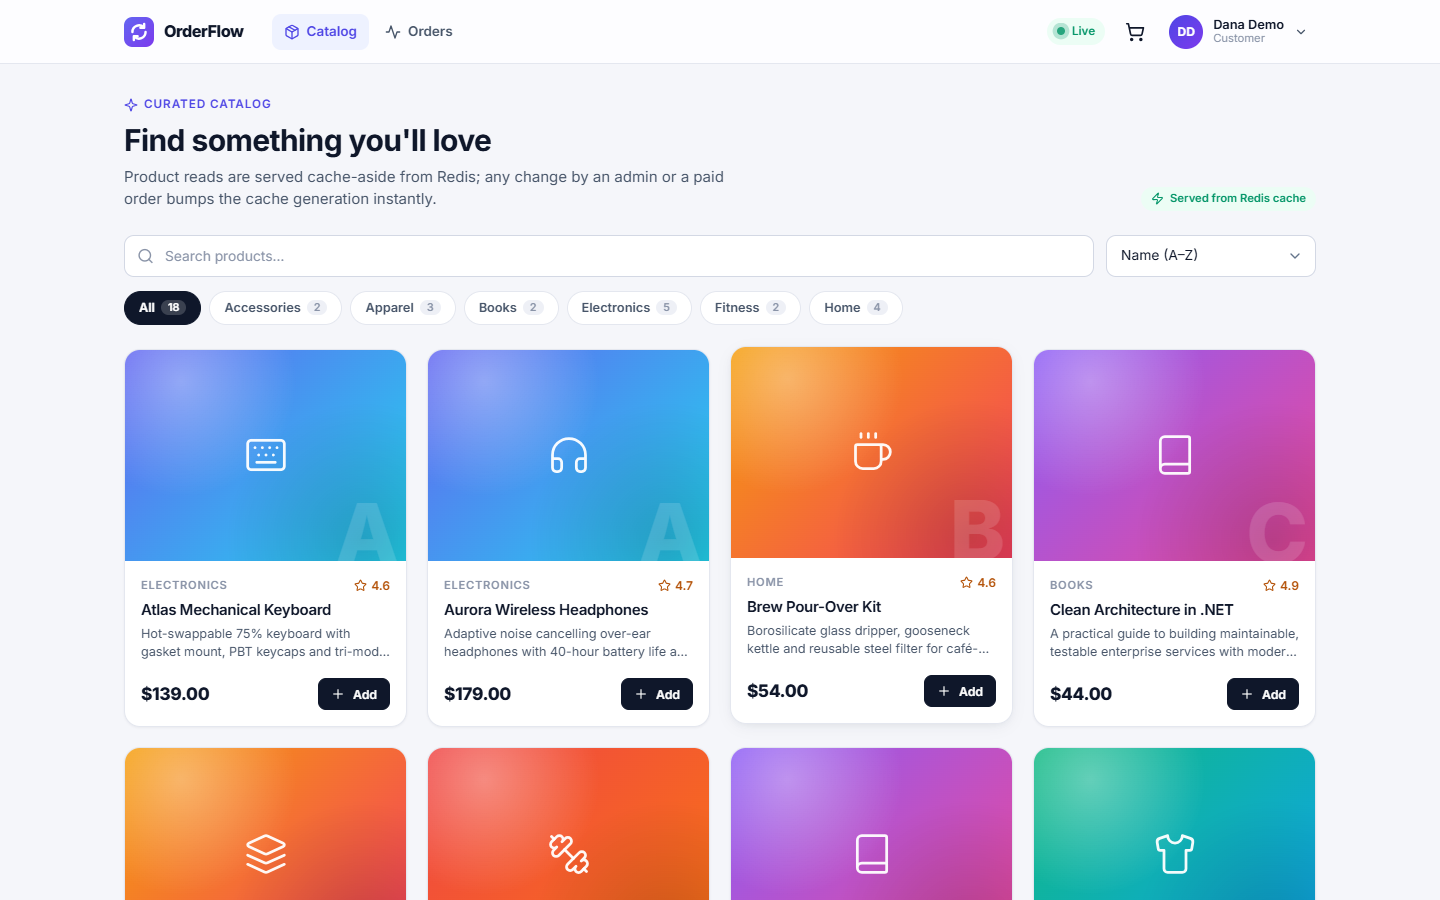
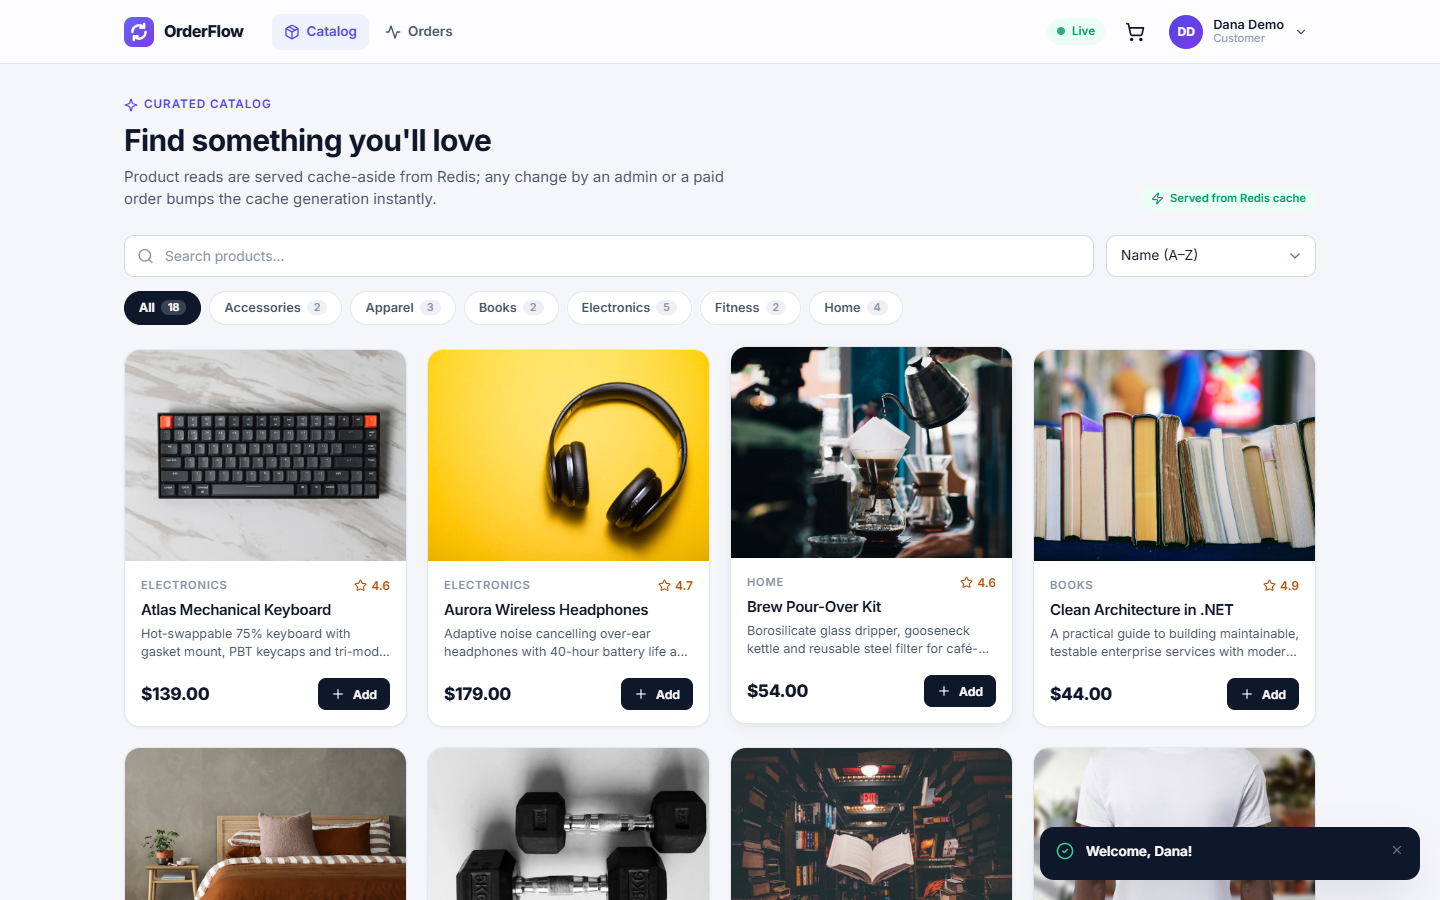
Add real product photos to the catalog
- 18 Unsplash photos (800x600 WebP, 848 KB) served from the frontend CDN
- Seeder sets images for new databases and back-fills existing ones; renames the jacket to match its photo
- Cache is invalidated on catalog startup; admin image URLs may be site paths
- Cart drawer and checkout show product photos; subtle zoom on hover

diff --git a/frontend/src/app/features/checkout/checkout.page.ts b/frontend/src/app/features/checkout/checkout.page.ts
@@ -61,7 +61,7 @@ const SCENARIOS: { id: PaymentScenario; title: string; desc: string; icon: strin
                   <div class="lines">
                     @for (line of cart.lines(); track line.productId) {
                       <div class="line">
-                        <div class="thumb"><app-product-art [name]="line.name" [category]="line.category" [iconSize]="24" /></div>
+                        <div class="thumb"><app-product-art [name]="line.name" [category]="line.category" [imageUrl]="line.imageUrl" [iconSize]="24" /></div>
                         <div class="grow">
                           <div class="strong">{{ line.name }}</div>
                           <div class="xs subtle">{{ line.category }} · {{ line.price | currency }} each</div>

diff --git a/frontend/src/app/core/cart.store.ts b/frontend/src/app/core/cart.store.ts
@@ -9,6 +9,7 @@ export interface CartLine {
   price: number;
   stock: number;
   quantity: number;
+  imageUrl?: string | null;
 }
 
 const STORAGE_KEY = 'orderflow.cart';
@@ -49,7 +50,7 @@ export class CartStore {
     } else {
       this.lines.update(lines => [
         ...lines,
-        { productId: product.id, name: product.name, category: product.category, price: product.price, stock: product.stock, quantity }
+        { productId: product.id, name: product.name, category: product.category, price: product.price, stock: product.stock, quantity, imageUrl: product.imageUrl }
       ]);
     }
     // Feedback comes from the animated cart badge in the top bar (a toast would cover the cart drawer).

diff --git a/frontend/src/app/layout/cart-drawer.ts b/frontend/src/app/layout/cart-drawer.ts
@@ -34,7 +34,7 @@ import { ProductArt } from '../shared/product-art';
           <div class="lines">
             @for (line of cart.lines(); track line.productId) {
               <div class="line">
-                <div class="thumb"><app-product-art [name]="line.name" [category]="line.category" [iconSize]="22" /></div>
+                <div class="thumb"><app-product-art [name]="line.name" [category]="line.category" [imageUrl]="line.imageUrl" [iconSize]="22" /></div>
                 <div class="grow info">
                   <div class="strong name">{{ line.name }}</div>
                   <div class="subtle xs">{{ line.price | currency }} each</div>

diff --git a/frontend/src/styles.scss b/frontend/src/styles.scss
@@ -513,3 +513,7 @@ button { font-family: inherit; }
 ::-webkit-scrollbar { width: 10px; height: 10px; }
 ::-webkit-scrollbar-thumb { background: #cfd5e1; border-radius: 10px; border: 2px solid var(--bg); }
 ::-webkit-scrollbar-track { background: transparent; }
+
+/* Catalog photos: gentle zoom on card hover (img lives inside <app-product-art>). */
+.product .media img { transition: transform 0.45s var(--ease); }
+.product:hover .media img { transform: scale(1.05); }

diff --git a/src/Services/Catalog/OrderFlow.Catalog.API/Data/CatalogSeeder.cs b/src/Services/Catalog/OrderFlow.Catalog.API/Data/CatalogSeeder.cs
@@ -4,33 +4,73 @@ namespace OrderFlow.Catalog.API.Data;
 
 public static class CatalogSeeder
 {
+    private sealed record SeedProduct(
+        string Name, string Category, decimal Price, int Stock, double Rating, string Image, string Description,
+        string? PreviousName = null);
+
+    // Images are served by the frontend's static host (frontend/public/products), so they load from the CDN.
+    private static readonly SeedProduct[] Products =
+    [
+        new("Aurora Wireless Headphones", "Electronics", 179.00m, 42, 4.7, "aurora-headphones", "Adaptive noise cancelling over-ear headphones with 40-hour battery life and multipoint Bluetooth 5.3."),
+        new("Pulse Smartwatch S2", "Electronics", 249.00m, 30, 4.5, "pulse-smartwatch", "AMOLED fitness smartwatch with GPS, heart-rate variability tracking and a 7-day battery."),
+        new("Nimbus 4K Webcam", "Electronics", 119.00m, 25, 4.3, "nimbus-webcam", "Ultra-HD webcam with auto-framing, dual noise-reducing microphones and a privacy shutter."),
+        new("Volt 65W GaN Charger", "Electronics", 49.00m, 120, 4.8, "volt-charger", "Compact three-port USB-C charger that powers a laptop, phone and earbuds at the same time."),
+        new("Atlas Mechanical Keyboard", "Electronics", 139.00m, 18, 4.6, "atlas-keyboard", "Hot-swappable 75% keyboard with gasket mount, PBT keycaps and tri-mode connectivity."),
+        new("Lumen Desk Lamp", "Home", 69.00m, 55, 4.4, "lumen-lamp", "Dimmable LED desk lamp with adjustable colour temperature and a wireless charging base."),
+        new("Brew Pour-Over Kit", "Home", 54.00m, 40, 4.6, "brew-pour-over", "Borosilicate glass dripper, gooseneck kettle and reusable steel filter for café-quality coffee."),
+        new("Cloudweave Throw Blanket", "Home", 79.00m, 35, 4.8, "cloudweave-blanket", "Ultra-soft organic cotton waffle-knit throw, pre-washed for a lived-in feel."),
+        new("Terra Ceramic Planter Set", "Home", 39.00m, 60, 4.2, "terra-planter", "Set of three matte stoneware planters with bamboo drainage trays."),
+        new("Summit Leather Jacket", "Apparel", 189.00m, 22, 4.7, "summit-jacket", "Classic biker jacket in soft full-grain leather with a quilted lining and YKK zips.",
+            PreviousName: "Summit Trail Jacket"),
+        new("Everyday Merino Tee", "Apparel", 59.00m, 80, 4.5, "merino-tee", "Temperature-regulating merino wool t-shirt that resists odour for days."),
+        new("Stride Running Shoes", "Apparel", 129.00m, 4, 4.6, "stride-shoes", "Lightweight daily trainers with a responsive foam midsole and recycled mesh upper."),
+        new("Clean Architecture in .NET", "Books", 44.00m, 70, 4.9, "clean-architecture-book", "A practical guide to building maintainable, testable enterprise services with modern .NET."),
+        new("Designing Event-Driven Systems", "Books", 39.00m, 65, 4.7, "event-driven-book", "Patterns for messaging, sagas, outboxes and eventual consistency at scale."),
+        new("FlexGrip Yoga Mat", "Fitness", 64.00m, 45, 4.5, "flexgrip-yoga-mat", "6mm natural rubber mat with alignment markings and a non-slip polyurethane top."),
+        new("CoreFit Adjustable Dumbbells", "Fitness", 299.00m, 12, 4.6, "corefit-dumbbells", "Space-saving dumbbells that adjust from 2 kg to 24 kg in seconds."),
+        new("Voyager Carry-On Backpack", "Accessories", 149.00m, 28, 4.8, "voyager-backpack", "Weatherproof 35L travel pack with a clamshell opening and padded laptop sleeve."),
+        new("Horizon Polarized Sunglasses", "Accessories", 89.00m, 50, 4.3, "horizon-sunglasses", "Lightweight acetate frames with polarized, UV400-rated lenses.")
+    ];
+
+    private static string ImagePath(SeedProduct p) => $"/products/{p.Image}.webp";
+
     public static async Task SeedAsync(CatalogDbContext db)
     {
-        if (await db.Products.AnyAsync()) return;
+        if (!await db.Products.AnyAsync())
+        {
+            db.Products.AddRange(Products.Select(p => new Product
+            {
+                Name = p.Name, Category = p.Category, Price = p.Price, Stock = p.Stock, Rating = p.Rating,
+                Description = p.Description, ImageUrl = ImagePath(p)
+            }));
+            await db.SaveChangesAsync();
+            return;
+        }
 
-        db.Products.AddRange(
-            P("Aurora Wireless Headphones", "Electronics", 179.00m, 42, 4.7, "Adaptive noise cancelling over-ear headphones with 40-hour battery life and multipoint Bluetooth 5.3."),
-            P("Pulse Smartwatch S2", "Electronics", 249.00m, 30, 4.5, "AMOLED fitness smartwatch with GPS, heart-rate variability tracking and a 7-day battery."),
-            P("Nimbus 4K Webcam", "Electronics", 119.00m, 25, 4.3, "Ultra-HD webcam with auto-framing, dual noise-reducing microphones and a privacy shutter."),
-            P("Volt 65W GaN Charger", "Electronics", 49.00m, 120, 4.8, "Compact three-port USB-C charger that powers a laptop, phone and earbuds at the same time."),
-            P("Atlas Mechanical Keyboard", "Electronics", 139.00m, 18, 4.6, "Hot-swappable 75% keyboard with gasket mount, PBT keycaps and tri-mode connectivity."),
-            P("Lumen Desk Lamp", "Home", 69.00m, 55, 4.4, "Dimmable LED desk lamp with adjustable colour temperature and a wireless charging base."),
-            P("Brew Pour-Over Kit", "Home", 54.00m, 40, 4.6, "Borosilicate glass dripper, gooseneck kettle and reusable steel filter for café-quality coffee."),
-            P("Cloudweave Throw Blanket", "Home", 79.00m, 35, 4.8, "Ultra-soft organic cotton waffle-knit throw, pre-washed for a lived-in feel."),
-            P("Terra Ceramic Planter Set", "Home", 39.00m, 60, 4.2, "Set of three matte stoneware planters with bamboo drainage trays."),
-            P("Summit Trail Jacket", "Apparel", 189.00m, 22, 4.7, "Waterproof, breathable three-layer shell built for alpine weather."),
-            P("Everyday Merino Tee", "Apparel", 59.00m, 80, 4.5, "Temperature-regulating merino wool t-shirt that resists odour for days."),
-            P("Stride Running Shoes", "Apparel", 129.00m, 4, 4.6, "Lightweight daily trainers with a responsive foam midsole and recycled mesh upper."),
-            P("Clean Architecture in .NET", "Books", 44.00m, 70, 4.9, "A practical guide to building maintainable, testable enterprise services with modern .NET."),
-            P("Designing Event-Driven Systems", "Books", 39.00m, 65, 4.7, "Patterns for messaging, sagas, outboxes and eventual consistency at scale."),
-            P("FlexGrip Yoga Mat", "Fitness", 64.00m, 45, 4.5, "6mm natural rubber mat with alignment markings and a non-slip polyurethane top."),
-            P("CoreFit Adjustable Dumbbells", "Fitness", 299.00m, 12, 4.6, "Space-saving dumbbells that adjust from 2 kg to 24 kg in seconds."),
-            P("Voyager Carry-On Backpack", "Accessories", 149.00m, 28, 4.8, "Weatherproof 35L travel pack with a clamshell opening and padded laptop sleeve."),
-            P("Horizon Polarized Sunglasses", "Accessories", 89.00m, 50, 4.3, "Lightweight acetate frames with polarized, UV400-rated lenses."));
-
-        await db.SaveChangesAsync();
+        await BackfillSeedImagesAsync(db);
     }
 
-    private static Product P(string name, string category, decimal price, int stock, double rating, string description) =>
-        new() { Name = name, Category = category, Price = price, Stock = stock, Rating = rating, Description = description };
+    /// <summary>
+    /// Upgrades databases seeded before product photos existed: adds the photo to seed products that have
+    /// none (and applies renames). Products created or edited by an admin keep their own image.
+    /// </summary>
+    private static async Task BackfillSeedImagesAsync(CatalogDbContext db)
+    {
+        var names = Products.SelectMany(p => new[] { p.Name, p.PreviousName }).OfType<string>().ToList();
+        var existing = await db.Products.Where(p => p.ImageUrl == null && names.Contains(p.Name)).ToListAsync();
+        if (existing.Count == 0) return;
+
+        foreach (var product in existing)
+        {
+            var seed = Products.First(s => s.Name == product.Name || s.PreviousName == product.Name);
+            product.ImageUrl = ImagePath(seed);
+            if (seed.PreviousName == product.Name)
+            {
+                product.Name = seed.Name;
+                product.Description = seed.Description;
+            }
+            product.UpdatedAtUtc = DateTime.UtcNow;
+        }
+        await db.SaveChangesAsync();
+    }
 }

diff --git a/src/Services/Catalog/OrderFlow.Catalog.API/Products/ProductContracts.cs b/src/Services/Catalog/OrderFlow.Catalog.API/Products/ProductContracts.cs
@@ -37,9 +37,10 @@ public sealed class UpsertProductRequestValidator : AbstractValidator<UpsertProd
         RuleFor(x => x.Stock).GreaterThanOrEqualTo(0).LessThan(1_000_000);
         RuleFor(x => x.Rating).InclusiveBetween(0, 5).When(x => x.Rating.HasValue);
         RuleFor(x => x.ImageUrl)
-            .Must(u => Uri.TryCreate(u, UriKind.Absolute, out var uri) && uri.Scheme == Uri.UriSchemeHttps)
+            .Must(u => (u!.StartsWith('/') && !u.StartsWith("//"))
+                       || (Uri.TryCreate(u, UriKind.Absolute, out var uri) && uri.Scheme == Uri.UriSchemeHttps))
             .When(x => !string.IsNullOrWhiteSpace(x.ImageUrl))
-            .WithMessage("Image URL must be an absolute https URL.");
+            .WithMessage("Image URL must be an https URL or a site path like /products/photo.webp.");
     }
 }
 

diff --git a/src/Services/Catalog/OrderFlow.Catalog.API/Program.cs b/src/Services/Catalog/OrderFlow.Catalog.API/Program.cs
@@ -36,4 +36,8 @@ app.MapProductEndpoints();
 
 await app.MigrateDatabaseAsync<CatalogDbContext>(CatalogSeeder.SeedAsync);
 
+// Seeding may have changed product data, so never serve catalog pages cached by a previous version.
+await using (var scope = app.Services.CreateAsyncScope())
+    await scope.ServiceProvider.GetRequiredService<ProductCache>().InvalidateAsync();
+
 app.Run();

diff --git a/README.md b/README.md
@@ -1,4 +1,4 @@
-# OrderFlow — Event-Driven Microservices Commerce Platform
+# OrderFlow â€” Event-Driven Microservices Commerce Platform
 
 An e-commerce order platform built as **independent .NET 10 microservices** that talk to each other asynchronously over **RabbitMQ**, with an **Angular 22** frontend that shows every order moving through the pipeline **in real time over SignalR**.
 
@@ -21,16 +21,16 @@ Monolithic checkouts couple everything together: one slow or failing dependency 
 flowchart LR
     UI["Angular 22 SPA<br/>(signals, standalone, zoneless)"] -- HTTPS / JWT --> GW
     UI <-. "SignalR (WebSockets)" .-> GW
-    GW["API Gateway<br/>YARP · JWT · rate limiting · CORS"]
+    GW["API Gateway<br/>YARP Â· JWT Â· rate limiting Â· CORS"]
     GW --> ID["Identity API<br/>JWT + refresh tokens"]
     GW --> CAT["Catalog API<br/>cache-aside"]
-    GW --> ORD["Ordering API<br/>CQRS · MediatR · outbox · SignalR hub"]
+    GW --> ORD["Ordering API<br/>CQRS Â· MediatR Â· outbox Â· SignalR hub"]
     GW --> PAY["Payment Worker"]
     GW --> NOT["Notification Worker"]
     ORD -- "price/stock lookup<br/>(resilient HTTP)" --> CAT
     CAT --- REDIS[("Upstash Redis")]
     ID & CAT & ORD & PAY & NOT --- PG[("Neon PostgreSQL<br/>schema per service")]
-    ORD -- OrderSubmitted --> MQ{{"RabbitMQ (CloudAMQP)<br/>topic exchanges · retries · _error DLQs"}}
+    ORD -- OrderSubmitted --> MQ{{"RabbitMQ (CloudAMQP)<br/>topic exchanges Â· retries Â· _error DLQs"}}
     MQ --> PAY
     PAY -- "PaymentProcessingStarted / Succeeded / Failed" --> MQ
     MQ --> ORD & CAT & NOT
@@ -55,15 +55,15 @@ sequenceDiagram
     O-->>B: 202 Accepted
     O-)MQ: outbox relay publishes OrderSubmitted
     MQ-)P: OrderSubmitted
-    MQ-)N: OrderSubmitted → "order received" email
-    P-)MQ: PaymentProcessingStarted … PaymentSucceeded
-    MQ-)O: update status → push via SignalR
+    MQ-)N: OrderSubmitted â†’ "order received" email
+    P-)MQ: PaymentProcessingStarted â€¦ PaymentSucceeded
+    MQ-)O: update status â†’ push via SignalR
     O--)B: orderUpdated (live)
-    MQ-)C: PaymentSucceeded → deduct stock, invalidate cache
-    MQ-)N: PaymentSucceeded → confirmation email + event log
+    MQ-)C: PaymentSucceeded â†’ deduct stock, invalidate cache
+    MQ-)N: PaymentSucceeded â†’ confirmation email + event log
 ```
 
-If the payment worker crashes on every attempt (try the **Chaos → DLQ** option at checkout), MassTransit retries three times, moves the message to the `_error` dead-letter queue and publishes `Fault<OrderSubmitted>`. Ordering consumes the fault and fails the order with a clear reason (compensation). Notification records a dead-letter alert, which appears on the admin dashboard.
+If the payment worker crashes on every attempt (try the **Chaos â†’ DLQ** option at checkout), MassTransit retries three times, moves the message to the `_error` dead-letter queue and publishes `Fault<OrderSubmitted>`. Ordering consumes the fault and fails the order with a clear reason (compensation). Notification records a dead-letter alert, which appears on the admin dashboard.
 
 ## Features
 
@@ -97,6 +97,7 @@ Demo accounts (one click on the login page):
 
 **Backend:** .NET 10, ASP.NET Core minimal APIs, YARP, EF Core 10 + Npgsql, MassTransit 8 (RabbitMQ), MediatR 12, FluentValidation, StackExchange.Redis, SignalR, Microsoft.Extensions.Http.Resilience, xUnit + Shouldly
 **Frontend:** Angular 22, TypeScript, RxJS, `@microsoft/signalr`, SCSS
+**Product photos:** [Unsplash](https://unsplash.com/license) (see `frontend/public/products/CREDITS.md`)
 **Infrastructure (all free tiers, no credit card):** Render (Docker web services + static site CDN), Neon PostgreSQL, CloudAMQP RabbitMQ, Upstash Redis, GitHub Actions CI
 
 ## Repository layout

diff --git a/frontend/public/products/CREDITS.md b/frontend/public/products/CREDITS.md
@@ -1,0 +1,23 @@
+# Product photo credits
+
+Photos from [Unsplash](https://unsplash.com), used under the [Unsplash License](https://unsplash.com/license).
+Each file was resized to 800x600 WebP from the Unsplash image ID listed.
+
+- aurora-headphones.webp  Unsplash image ID `photo-1505740420928-5e560c06d30e`
+- pulse-smartwatch.webp  Unsplash image ID `photo-1546868871-7041f2a55e12`
+- nimbus-webcam.webp  Unsplash image ID `photo-1623949556303-b0d17d198863`
+- volt-charger.webp  Unsplash image ID `photo-1583863788434-e58a36330cf0`
+- atlas-keyboard.webp  Unsplash image ID `photo-1618384887929-16ec33fab9ef`
+- lumen-lamp.webp  Unsplash image ID `photo-1507473885765-e6ed057f782c`
+- brew-pour-over.webp  Unsplash image ID `photo-1442512595331-e89e73853f31`
+- cloudweave-blanket.webp  Unsplash image ID `photo-1616627561839-074385245ff6`
+- terra-planter.webp  Unsplash image ID `photo-1485955900006-10f4d324d411`
+- summit-jacket.webp  Unsplash image ID `photo-1551028719-00167b16eac5`
+- merino-tee.webp  Unsplash image ID `photo-1521572163474-6864f9cf17ab`
+- stride-shoes.webp  Unsplash image ID `photo-1542291026-7eec264c27ff`
+- clean-architecture-book.webp  Unsplash image ID `photo-1495446815901-a7297e633e8d`
+- event-driven-book.webp  Unsplash image ID `photo-1532012197267-da84d127e765`
+- flexgrip-yoga-mat.webp  Unsplash image ID `photo-1601925260368-ae2f83cf8b7f`
+- corefit-dumbbells.webp  Unsplash image ID `photo-1638536532686-d610adfc8e5c`
+- voyager-backpack.webp  Unsplash image ID `photo-1553062407-98eeb64c6a62`
+- horizon-sunglasses.webp  Unsplash image ID `photo-1572635196237-14b3f281503f`
